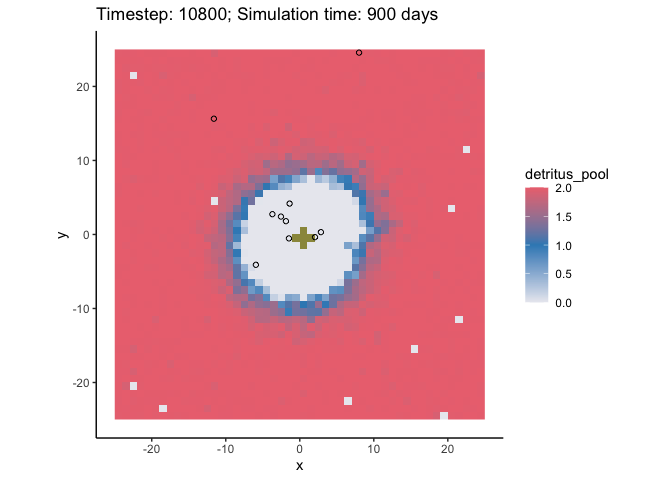
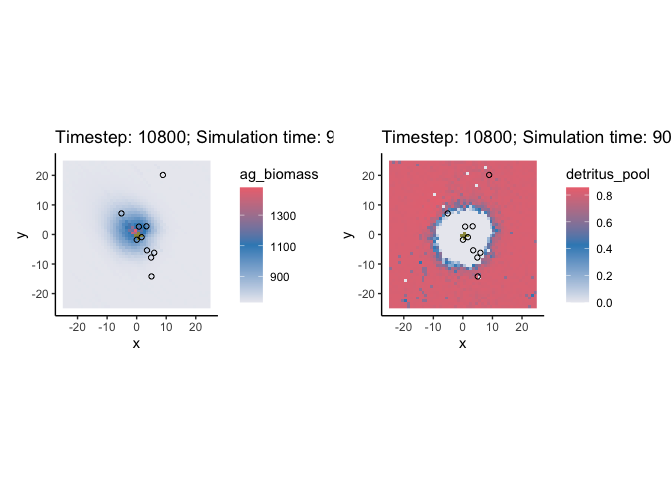
:pencil: Update README

diff --git a/README.md b/README.md
@@ -5,6 +5,15 @@
 
 <!-- badges: start -->
 
+\[![Lifecycle](https://img.shields.io/badge/lifecycle-maturing-blue.svg)
+
+[![Project Status: Active – The project has reached a stable, usable
+state and is being actively
+developed.](https://www.repostatus.org/badges/latest/active.svg)](https://www.repostatus.org/#active)
+
+[![License:
+MIT](https://img.shields.io/badge/License-MIT-yellow.svg)](https://opensource.org/licenses/MIT)
+
 <!-- badges: end -->
 
 The goal of coRal is to …
@@ -31,6 +40,9 @@ To access all functions to run the mode, simply load the library.
 
 ``` r
 library(coRal)
+library(patchwork) # needed for plotting
+#> Warning: replacing previous import 'vctrs::data_frame' by 'tibble::data_frame'
+#> when loading 'dplyr'
 ```
 
 The starting values and parameters must be imported as two separated
@@ -88,17 +100,17 @@ result <- run_simulation(seafloor = input_seafloor,
                          verbose = FALSE)
 
 result
-#> Total simulated time: 900 d 
+#> Total simulated time: 900 days
 #> 
 #> Seafloor: (ag_biomass, bg_biomass, detritus_pool, detritus_dead, wc_nutrients)
-#> Minimum: 0, 0, 0, 0, -1e-05
-#> Median: 2270.65862, 2657.55888, 1.9981, 0, 0.00016
-#> Maximum: 2270.65862, 2657.55888, 2.00419, 19.55918, 0.01807
+#> Minimum: 0, 0, 0, 0, 0.07
+#> Median: 733.25431, 2657.16919, 0.81523, 0, 0.07
+#> Maximum: 1479.54316, 2657.16924, 0.85604, 0.69495, 0.07825
 #> 
 #> Fish population: (length, weight)
-#> Minimum: 4.469, 1.37436
-#> Median: 7.48477, 7.01894
-#> Maximum: 14.42224, 55.78125
+#> Minimum: 5.38436, 2.47685
+#> Median: 7.28646, 6.44472
+#> Maximum: 18.56379, 123.89115
 #> Total deaths: 10
 ```
 
@@ -109,7 +121,10 @@ the whole `RasterBrick`
 
 ``` r
 
-plot(result, fill = "detritus_pool")
+gg_biomass <- plot(result, fill = "ag_biomass")
+gg_detritus <- plot(result, fill = "detritus_pool")
+
+gg_biomass + gg_detritus
 ```
 
 <img src="man/figures/README-plot-1.png" width="100%" style="display: block; margin: auto;" />

diff --git a/NEWS.md b/NEWS.md
@@ -1,3 +1,8 @@
+# coRal 0.2.0
+
+* Speed and RAM improvements of many function
+* Including Rcpp
+
 # coRal 0.1.0
 
 * First re-implementation of model code
